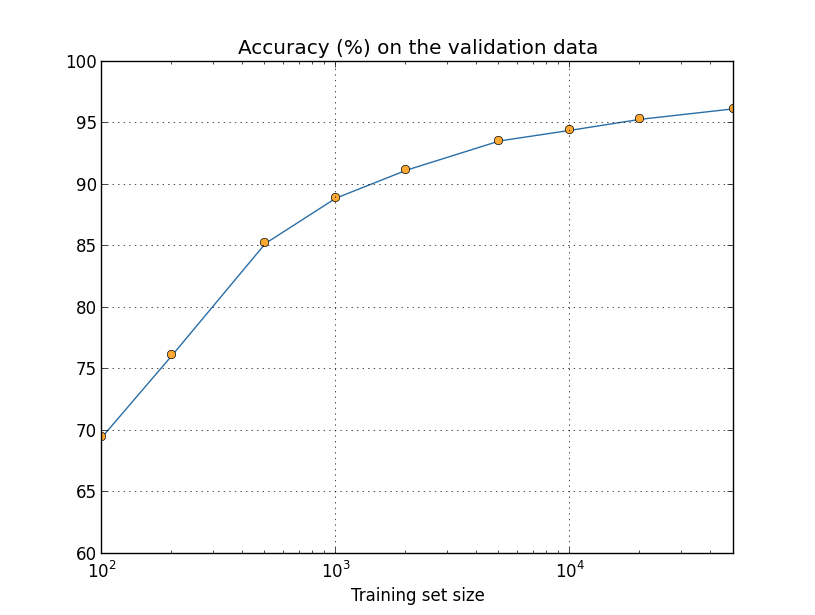
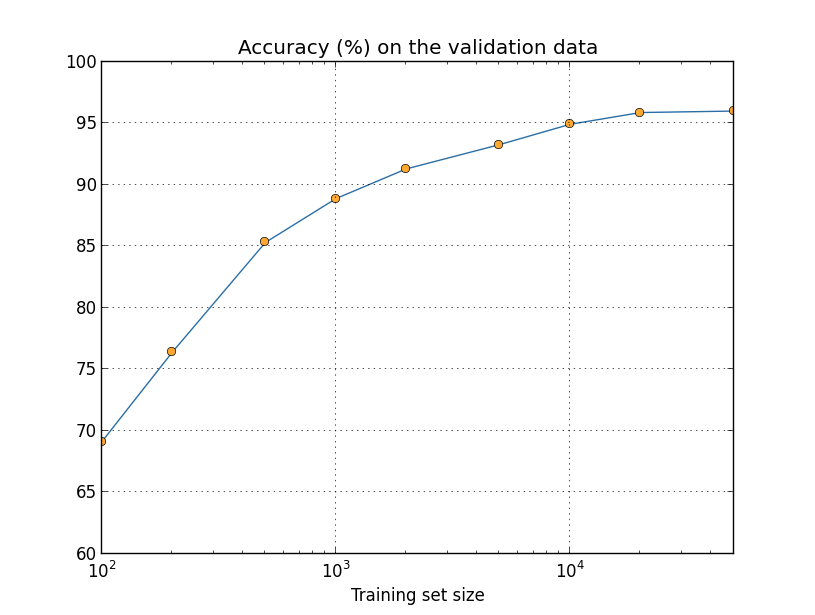
Updated parameterization for the more data plots

diff --git a/fig/more_data.py b/fig/more_data.py
@@ -40,7 +40,7 @@ def run_networks():
         print "\n\nTraining network with data set size %s" % size
         net.large_weight_initializer()
         num_epochs = 1500000 / size 
-        net.SGD(training_data[:size], num_epochs, 10, 0.5, lmbda = 5.0)
+        net.SGD(training_data[:size], num_epochs, 10, 0.5, lmbda = size*0.0001)
         accuracy = net.accuracy(validation_data) / 100.0
         print "Accuracy was %s percent" % accuracy
         accuracies.append(accuracy)
